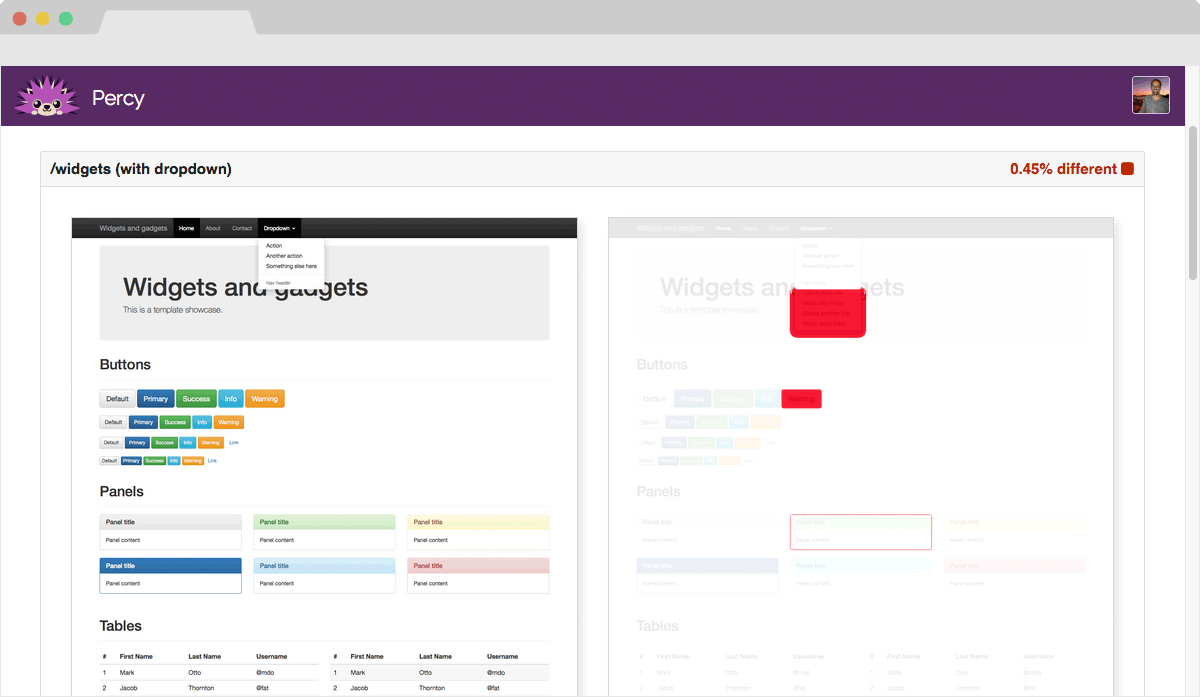
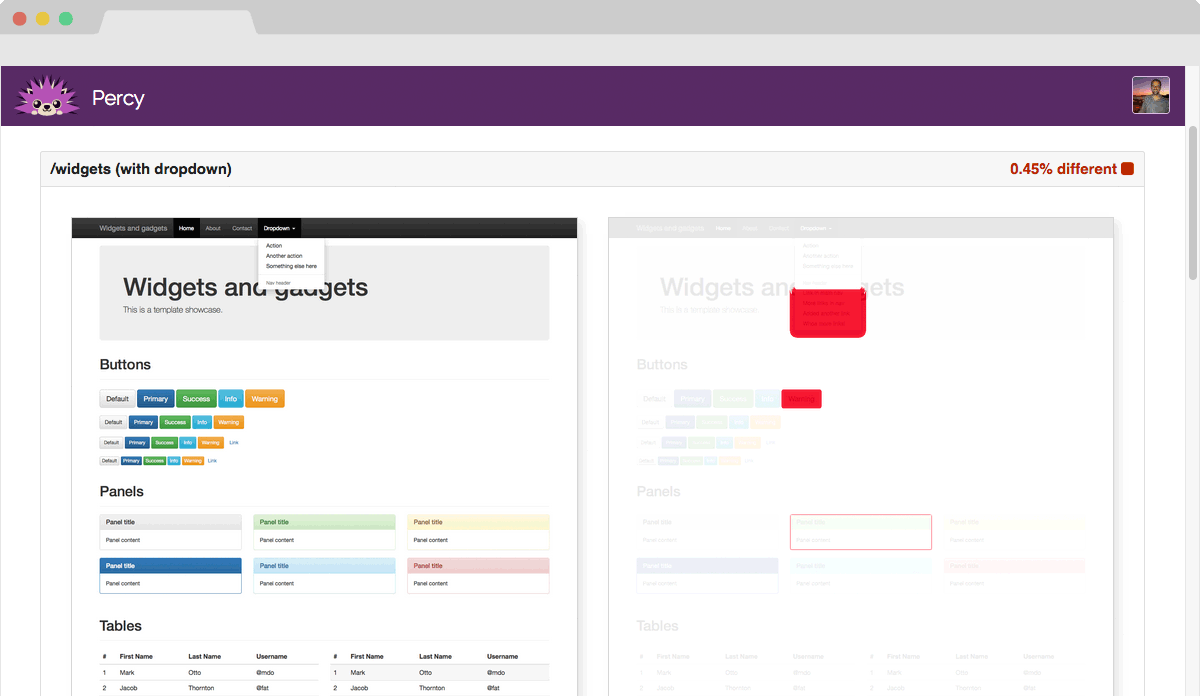
Styling and fades for mock page.

diff --git a/app/components/mock-page.js b/app/components/mock-page.js
@@ -1,11 +1,12 @@
 import Ember from 'ember';
 
 export default Ember.Component.extend({
+  showHints: false,
   showOverlay: true,
   hideOverlay: Ember.computed.not('showOverlay'),
 
   classNames: ['MockPage'],
-  classNameBindings: ['classes'],
+  classNameBindings: ['classes', 'showHints:MockPage--showHints'],
 
   showWhenOverlay: function() {
     return (this.get('hideOverlay') ? 'display: none' : '').htmlSafe();
@@ -13,6 +14,21 @@ export default Ember.Component.extend({
   hideWhenOverlay: function() {
     return (this.get('showOverlay') ? 'display: none' : '').htmlSafe();
   }.property('hideOverlay'),
+
+  fadeHintsOnScroll: function() {
+    var self = this;
+    var windowHeight = Ember.$(window).height(); // Assume no resize, for performance sake.
+    var element = this.$();
+    var elementTop = element.offset().top;
+
+    Ember.$(window).bind('scroll', function(){
+      var elementHeightShowing = windowHeight - elementTop + Ember.$(window).scrollTop();
+      if (elementHeightShowing > 550) {
+        self.set('showHints', true);
+        Ember.$(window).unbind('scroll');
+      }
+    });
+  }.on('didInsertElement'),
 
   actions: {
     toggleOverlay: function() {

diff --git a/app/styles/components/_mock_page.sass b/app/styles/components/_mock_page.sass
@@ -1,40 +1,51 @@
 .MockPage
+  padding-top: 20px
   position: relative
   max-width: 1200px
   margin: 0 auto
 
   img
     display: block
-    margin: 0 auto 50px auto
+    margin: 0 auto
     width: 100%
     cursor: pointer
 
+  &.MockPage--showHints
+    .hint--always
+      opacity: 1;
+      transition: opacity 1s ease-in-out;
+      -moz-transition: opacity 1s ease-in-out;
+      -webkit-transition: opacity 1s ease-in-out;
+
+  .hint--always
+    opacity: 0
+
   .hint--always:before
-    border-right-color: #414141
+    border-right-color: rgba(65,65,65,0.8)
 
   .hint--always:after
     text-align: left
     // Allow &#10; newlines in data attr.
     white-space: pre
-    background-color: #414141
+    background-color: rgba(65,65,65,0.8)
     line-height: 1.7rem
     font-size: 1.4rem
 
   .MockPage-note1
     position: absolute
-    top: 45%
+    top: 47%
     right: 26%
     z-index: 100
 
   .MockPage-note2
     position: absolute
-    top: 57%
-    right: 30%
+    top: 58.5%
+    right: 29%
     z-index: 100
 
   .MockPage-note3
     position: absolute
-    top: 76%
+    top: 77%
     right: 21.5%
     z-index: 100
 

diff --git a/Brocfile.js b/Brocfile.js
@@ -16,6 +16,6 @@ var app = new EmberApp();
 // modules that you would like to import into your application
 // please specify an object with the list of modules as keys
 // along with the exports of each module as its value.
-app.import('bower_components/hint.css/hint.base.css');
+app.import('bower_components/hint.css/hint.css');
 
 module.exports = app.toTree();

diff --git a/app/styles/_marketing.sass b/app/styles/_marketing.sass
@@ -1,6 +1,7 @@
 &.container
   &.container--marketing
     h2
+      padding-top: 20px
       font-weight: bold
       text-align: center
       margin-bottom: 0
@@ -12,6 +13,9 @@
     &.InviteContainer
       padding: 20px
       text-align: center
+
+    &.MockPageContainer
+      box-shadow: 0 6px 17px -8px #d0d0d0
 
 .Footer-logo
   width: 100px
